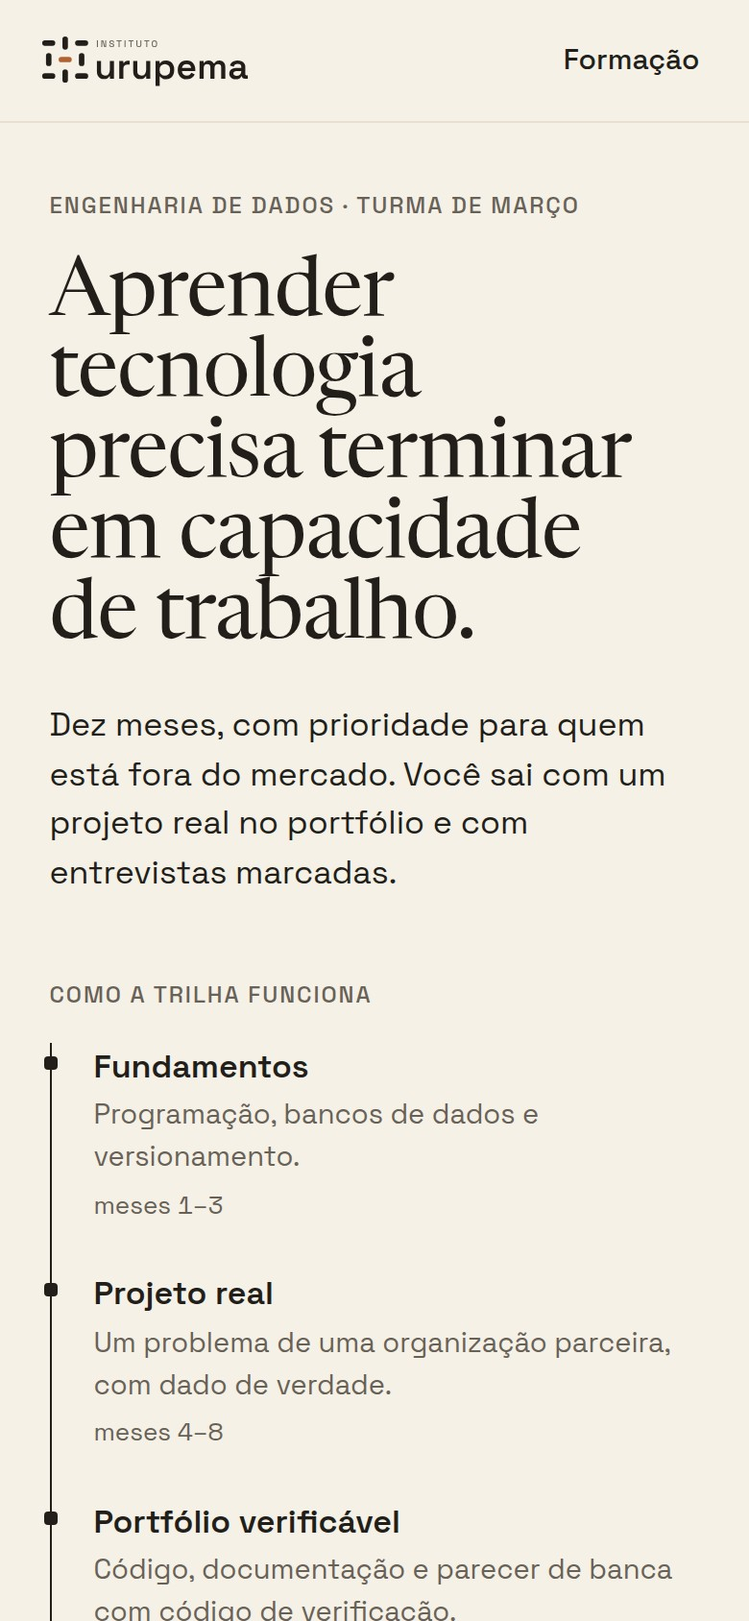
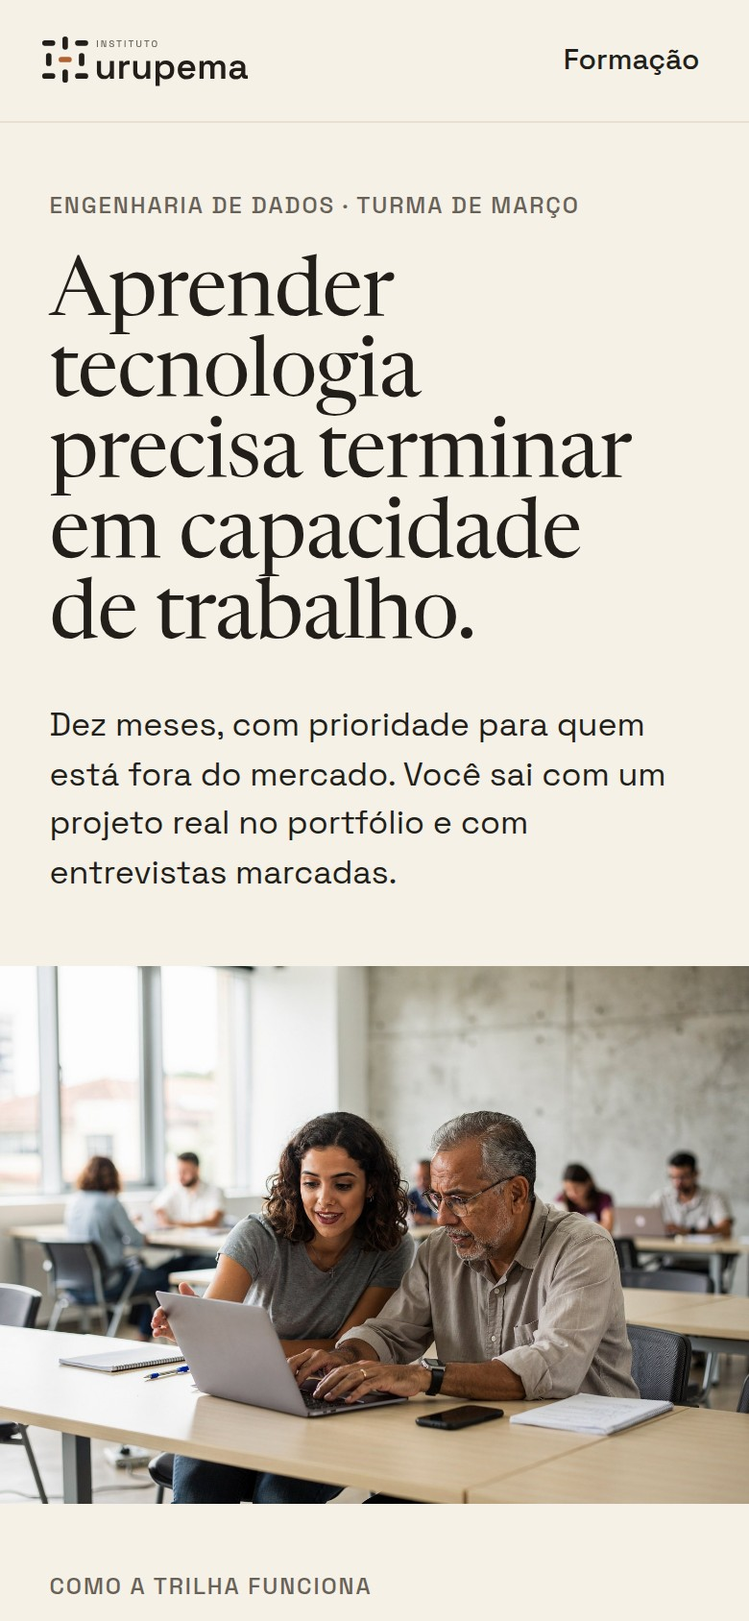
Adiciona fotografia provisória ao livro, ao site e à formação
Cinco fotos geradas segundo a direção de imagem da marca (trabalho real,
mãos e ferramentas, luz do lugar, cor natural), com pseudo-marcas removidas.
Ficam em livro/fotografia/provisoria-*.jpg até existir acervo real.
A regra de imagem passa a exigir registro real em peças de impacto.

Claude-Session: https://claude.ai/code/session_01TzECq42TYU8qYEzLuwouNr

Changed region(s): [[0.0, 0.5853, 1.0, 1.0]]

diff --git a/livro/index.html b/livro/index.html
@@ -123,6 +123,13 @@ td .chip { display: inline-block; width: 14px; height: 14px; border-radius: 3px;
 .falha h4::before { content: "Não: "; color: var(--reduzida); font-weight: 500; }
 .falha p { font-size: 15px; }
 
+/* fotografia */
+.fotos { grid-column: 1 / -1; display: grid; grid-template-columns: repeat(2, minmax(0,1fr)); column-gap: 24px; row-gap: 40px; }
+.fotos figure { margin: 0; }
+.fotos .f-grande { grid-column: 1 / -1; }
+.fotos img { width: 100%; aspect-ratio: 3 / 2; object-fit: cover; }
+.fotos .f-grande img { aspect-ratio: 21 / 9; object-position: 50% 8%; }
+
 /* aplicações */
 .aplic { padding: 120px var(--m) 96px; border-top: 1px solid var(--areia); }
 .aplic .par { display: grid; grid-template-columns: 1fr 1fr; column-gap: 24px; margin-bottom: 72px; align-items: start; }
@@ -165,7 +172,7 @@ footer.fim p { grid-column: 5 / 12; font-size: 15px; color: var(--palha-reduzida
   .s-cab, .corpo-s { display: block; }
   .s-cab h2 { margin-top: 12px; }
   .corpo-s > * + * { margin-top: 48px; }
-  .regras, .cadeia, .painel-simbolo, .assinaturas-grade, .especime, .dispositivos, .falhas, .frases, .decisao-nome, .arquivos, .aplic .par, .aplic .tres, .aplic .celular, .indice { grid-template-columns: 1fr; row-gap: 32px; }
+  .fotos, .regras, .cadeia, .painel-simbolo, .assinaturas-grade, .especime, .dispositivos, .falhas, .frases, .decisao-nome, .arquivos, .aplic .par, .aplic .tres, .aplic .celular, .indice { grid-template-columns: 1fr; row-gap: 32px; }
   .amostras { grid-template-columns: 1fr 1fr; }
   .campo-cor { min-height: 240px; }
   .campo-cor b { font-size: 22px; }
@@ -430,10 +437,17 @@ footer.fim p { grid-column: 5 / 12; font-size: 15px; color: var(--palha-reduzida
 </section>
 
 <section class="s" id="imagem">
-  <div class="s-cab"><p class="rotulo">11 · Imagem, ícones, dados e movimento</p><h2>Documentar capacidade, não encenar impacto</h2></div>
+  <div class="s-cab"><p class="rotulo">11 · Imagem, ícones, dados e movimento</p><h2>Documentar capacidade, não encenar impacto</h2><p class="abre">Fotografia de trabalho real, perto das mãos e das ferramentas, com a luz do lugar. O calor da marca vem do Urucum gráfico, nunca de um filtro na foto.</p></div>
   <div class="corpo-s">
+    <div class="fotos">
+      <figure class="f-grande"><img src="fotografia/provisoria-infraestrutura.jpg" alt="Técnica conecta um cabo de rede no painel de um rack de servidores"><figcaption><b>A ação em primeiro plano.</b> Mãos, cabo e painel dizem o que acontece; o rosto concentrado confirma que é trabalho, não pose.</figcaption></figure>
+      <figure><img src="fotografia/provisoria-pesquisa.jpg" alt="Pesquisador analisa gráficos no monitor, com caderno de anotações ao lado"><figcaption><b>Pessoa trabalhando, não olhando para a câmera.</b> Luz de janela, cor natural, tela legível só como forma.</figcaption></figure>
+      <figure><img src="fotografia/provisoria-saude.jpg" alt="Analista de dados de saúde marca uma linha em relatório impresso"><figcaption><b>O lugar como ele é.</b> Escritório público, papel e lápis; ninguém é retratado como beneficiário.</figcaption></figure>
+      <figure><img src="fotografia/provisoria-formacao.jpg" alt="Duas pessoas programam juntas em um notebook, em sala de aula"><figcaption><b>Aprender como trabalho.</b> Duas gerações diante do mesmo problema; a turma ao fundo, fora de foco.</figcaption></figure>
+      <figure><img src="fotografia/provisoria-cooperacao.jpg" alt="Mãos de quatro pessoas em volta de uma mesa com documentos, um diagrama e uma assinatura"><figcaption><b>Cooperação mostrada pelo que se decide.</b> O diagrama e a assinatura, não o aperto de mãos.</figcaption></figure>
+    </div>
     <div class="regras" style="grid-column:1/-1">
-      <div class="regra"><h4>Fotografia</h4><p class="faca">Fotografia documental de trabalho real: laboratório, sala de máquinas, campo, pesquisa e sala de aula; mãos, ferramentas, telas, cadernos e cabos antes de retratos posados.</p><p class="faca">Pessoas como pesquisadoras, técnicas, estudantes, profissionais e parceiras.</p><p class="faca">Luz natural ou neutra, cor natural; sem duotone de marca nem filtro alaranjado. O calor vem do Urucum gráfico.</p><p class="faca">Imagem gerada nunca documenta impacto, pessoa ou lugar real; quando usada, é declarada como ilustração.</p></div>
+      <div class="regra"><h4>Fotografia</h4><p class="faca">Fotografia documental de trabalho real: laboratório, sala de máquinas, campo, pesquisa e sala de aula; mãos, ferramentas, telas, cadernos e cabos antes de retratos posados.</p><p class="faca">Pessoas como pesquisadoras, técnicas, estudantes, profissionais e parceiras.</p><p class="faca">Luz natural ou neutra, cor natural; sem duotone de marca nem filtro alaranjado. O calor vem do Urucum gráfico.</p><p class="faca">Peça de impacto (relatório de resultado, prestação de contas, imprensa) usa só registro real do projeto, da pessoa ou do lugar de que fala.</p></div>
       <div class="regra"><h4>Ícones</h4><p class="faca">Traço uniforme de 1,5 px a 24 px, pontas e cantos arredondados na proporção da barra, sem copiar o símbolo.</p><p class="faca">Estados de permissão, origem, revogação e evidência sempre com rótulo textual.</p><p class="faca">Cadeado nunca representa soberania sozinho.</p></div>
       <div class="regra"><h4>Dados e diagramas</h4><p class="faca">Gráficos em Tinta e tons de Areia; uma única série ou valor em Urucum, o que a peça quer que se decida.</p><p class="faca">Linhagem é desenhada como trilha entre entidades rotuladas, com direção e data; nunca como rede de nós sem rótulo.</p><p class="faca">Toda figura traz fonte, versão do dado e data no rodapé.</p></div>
       <div class="regra"><h4>Movimento</h4><p class="faca">Barras entram por eixos ortogonais e travam na malha; sem elasticidade nem ondas.</p><p class="faca">A estrutura aparece antes do conteúdo que a atravessa; o Urucum entra por último, como decisão.</p><p class="faca">160–280 ms em microinterações; 400–700 ms na assinatura animada.</p><p class="faca">Com movimento reduzido, o estado final aparece imediatamente.</p></div>
@@ -455,7 +469,7 @@ footer.fim p { grid-column: 5 / 12; font-size: 15px; color: var(--palha-reduzida
 
 <section class="s" id="arquivos">
   <div class="s-cab"><p class="rotulo">13 · Arquivos</p><h2>Tudo o que você precisa para produzir</h2><p class="abre">Os masters estão em SVG, com o texto convertido em contornos: não dependem de fonte instalada. Os modelos em HTML imprimem em A4 pelo navegador.</p></div>
-  <div class="corpo-s"><div class="arquivos"><section class="grupo-arquivos"><h3>Símbolo, assinaturas, carimbo e ícones</h3><ul><li><a href="logo/assinatura-horizontal-1200.png" download>Assinatura horizontal 1200</a><span>assinatura-horizontal-1200.png</span></li><li><a href="logo/assinatura-horizontal-mono-negativa.svg" download>Assinatura horizontal do Instituto Urupema — Uma cor, Palha, sobre fundo escuro</a><span>assinatura-horizontal-mono-negativa.svg</span></li><li><a href="logo/assinatura-horizontal-mono.svg" download>Assinatura horizontal do Instituto Urupema — Uma cor, Tinta: carimbo, relevo seco, fax, gravação</a><span>assinatura-horizontal-mono.svg</span></li><li><a href="logo/assinatura-horizontal-negativa-1200.png" download>Assinatura horizontal negativa 1200</a><span>assinatura-horizontal-negativa-1200.png</span></li><li><a href="logo/assinatura-horizontal-negativa.svg" download>Assinatura horizontal do Instituto Urupema — Palha e Urucum, para fundo Tinta</a><span>assinatura-horizontal-negativa.svg</span></li><li><a href="logo/assinatura-horizontal.svg" download>Assinatura horizontal do Instituto Urupema — Tinta e Urucum, para fundos claros</a><span>assinatura-horizontal.svg</span></li><li><a href="logo/assinatura-vertical-mono-negativa.svg" download>Assinatura vertical do Instituto Urupema — Uma cor, Palha, sobre fundo escuro</a><span>assinatura-vertical-mono-negativa.svg</span></li><li><a href="logo/assinatura-vertical-mono.svg" download>Assinatura vertical do Instituto Urupema — Uma cor, Tinta: carimbo, relevo seco, fax, gravação</a><span>assinatura-vertical-mono.svg</span></li><li><a href="logo/assinatura-vertical-negativa.svg" download>Assinatura vertical do Instituto Urupema — Palha e Urucum, para fundo Tinta</a><span>assinatura-vertical-negativa.svg</span></li><li><a href="logo/assinatura-vertical.svg" download>Assinatura vertical do Instituto Urupema — Tinta e Urucum, para fundos claros</a><span>assinatura-vertical.svg</span></li><li><a href="logo/avatar-800.png" download>Avatar 800</a><span>avatar-800.png</span></li><li><a href="logo/avatar.svg" download>Avatar do Instituto Urupema</a><span>avatar.svg</span></li><li><a href="logo/carimbo-negativo.svg" download>Carimbo institucional do Instituto Urupema — Palha sobre fundo escuro</a><span>carimbo-negativo.svg</span></li><li><a href="logo/carimbo-urucum.svg" download>Carimbo institucional do Instituto Urupema — Urucum, como única decisão da peça</a><span>carimbo-urucum.svg</span></li><li><a href="logo/carimbo.svg" download>Carimbo institucional do Instituto Urupema — Tinta</a><span>carimbo.svg</span></li><li><a href="logo/favicon-16.png" download>Favicon 16</a><span>favicon-16.png</span></li><li><a href="logo/favicon-16.svg" download>Instituto Urupema</a><span>favicon-16.svg</span></li><li><a href="logo/favicon-32.png" download>Favicon 32</a><span>favicon-32.png</span></li><li><a href="logo/favicon-32.svg" download>Instituto Urupema</a><span>favicon-32.svg</span></li><li><a href="logo/favicon-48.png" download>Favicon 48</a><span>favicon-48.png</span></li><li><a href="logo/favicon.svg" download>Instituto Urupema</a><span>favicon.svg</span></li><li><a href="logo/forja-assinatura-negativa.svg" download>Forja — um produto do Instituto Urupema (Palha e Urucum, para fundo Tinta)</a><span>forja-assinatura-negativa.svg</span></li><li><a href="logo/forja-assinatura.svg" download>Forja — um produto do Instituto Urupema (Tinta e Urucum, para fundos claros)</a><span>forja-assinatura.svg</span></li><li><a href="logo/icone-app-180.png" download>Icone app 180</a><span>icone-app-180.png</span></li><li><a href="logo/icone-app-512.png" download>Icone app 512</a><span>icone-app-512.png</span></li><li><a href="logo/simbolo-campo-escuro.svg" download>Símbolo em escala de campo — Tinta elevada sobre Tinta</a><span>simbolo-campo-escuro.svg</span></li><li><a href="logo/simbolo-campo.svg" download>Símbolo em escala de campo — Areia sobre Palha</a><span>simbolo-campo.svg</span></li><li><a href="logo/simbolo-mono-negativa.svg" download>Símbolo do Instituto Urupema — Uma cor, Palha, sobre fundo escuro</a><span>simbolo-mono-negativa.svg</span></li><li><a href="logo/simbolo-mono.svg" download>Símbolo do Instituto Urupema — Uma cor, Tinta: carimbo, relevo seco, fax, gravação</a><span>simbolo-mono.svg</span></li><li><a href="logo/simbolo-negativa.svg" download>Símbolo do Instituto Urupema — Palha e Urucum, para fundo Tinta</a><span>simbolo-negativa.svg</span></li><li><a href="logo/simbolo.svg" download>Símbolo do Instituto Urupema</a><span>simbolo.svg</span></li></ul></section><section class="grupo-arquivos"><h3>Cores e variáveis</h3><ul><li><a href="cores/tokens.css" download>Variáveis de cor, espaço e fontes para CSS</a><span>tokens.css</span></li><li><a href="cores/tokens.json" download>Variáveis de cor, espaço e raio em JSON (formato de tokens de design)</a><span>tokens.json</span></li></ul></section><section class="grupo-arquivos"><h3>Fontes e licenças</h3><ul><li><a href="fontes/Newsreader-Variavel-Italico.woff2" download>Newsreader, variável, itálica</a><span>Newsreader-Variavel-Italico.woff2</span></li><li><a href="fontes/Newsreader-Variavel.woff2" download>Newsreader, variável, redonda</a><span>Newsreader-Variavel.woff2</span></li><li><a href="fontes/OFL-Newsreader.txt" download>Licença SIL OFL 1.1 — Newsreader</a><span>OFL-Newsreader.txt</span></li><li><a href="fontes/OFL-SpaceGrotesk.txt" download>Licença SIL OFL 1.1 — Space Grotesk</a><span>OFL-SpaceGrotesk.txt</span></li><li><a href="fontes/SpaceGrotesk-Variavel.woff2" download>Space Grotesk, variável</a><span>SpaceGrotesk-Variavel.woff2</span></li></ul></section><section class="grupo-arquivos"><h3>Modelos editáveis em HTML</h3><ul><li><a href="modelos/apresentacao.html" download>Modelo — Apresentação institucional · Instituto Urupema</a><span>apresentacao.html</span></li><li><a href="modelos/assinatura-email.html" download>Modelo — Assinatura de e-mail · Instituto Urupema</a><span>assinatura-email.html</span></li><li><a href="modelos/card-social.html" download>Modelo — Card social 1200 × 630 · Instituto Urupema</a><span>card-social.html</span></li><li><a href="modelos/certificado.html" download>Modelo — Certificado de competência · Instituto Urupema</a><span>certificado.html</span></li><li><a href="modelos/coassinatura.html" download>Modelo — Co-assinatura com parceiros · Instituto Urupema</a><span>coassinatura.html</span></li><li><a href="modelos/componentes.css" download>Componentes de marca para os modelos em HTML</a><span>componentes.css</span></li><li><a href="modelos/cracha.html" download>Modelo — Crachá · Instituto Urupema</a><span>cracha.html</span></li><li><a href="modelos/forja-evidencia.html" download>Modelo de interface — Forja, evidência de execução</a><span>forja-evidencia.html</span></li><li><a href="modelos/formacao.html" download>Formação que termina em trabalho — Instituto Urupema</a><span>formacao.html</span></li><li><a href="modelos/infra-painel.html" download>Modelo de interface — Painel de infraestrutura · Instituto Urupema</a><span>infra-painel.html</span></li><li><a href="modelos/proposta.html" download>Modelo — Proposta institucional · Instituto Urupema</a><span>proposta.html</span></li><li><a href="modelos/relatorio.html" download>Modelo — Relatório técnico · Instituto Urupema</a><span>relatorio.html</span></li><li><a href="modelos/site-home.html" download>Instituto Urupema — Refinar tecnologia em bem comum</a><span>site-home.html</span></li></ul></section><section class="grupo-arquivos"><h3>Aplicações de referência</h3><ul><li><a href="aplicacoes/apresentacao-1.jpg" download>Apresentacao 1</a><span>apresentacao-1.jpg</span></li><li><a href="aplicacoes/apresentacao-2.jpg" download>Apresentacao 2</a><span>apresentacao-2.jpg</span></li><li><a href="aplicacoes/assinatura-email.jpg" download>Assinatura email</a><span>assinatura-email.jpg</span></li><li><a href="aplicacoes/card-social-1.jpg" download>Card social 1</a><span>card-social-1.jpg</span></li><li><a href="aplicacoes/card-social-2.jpg" download>Card social 2</a><span>card-social-2.jpg</span></li><li><a href="aplicacoes/cena-convenio.jpg" download>Cena convenio</a><span>cena-convenio.jpg</span></li><li><a href="aplicacoes/cena-cracha.jpg" download>Cena cracha</a><span>cena-cracha.jpg</span></li><li><a href="aplicacoes/certificado.jpg" download>Certificado</a><span>certificado.jpg</span></li><li><a href="aplicacoes/coassinatura.jpg" download>Coassinatura</a><span>coassinatura.jpg</span></li><li><a href="aplicacoes/cracha.jpg" download>Cracha</a><span>cracha.jpg</span></li><li><a href="aplicacoes/forja-evidencia.jpg" download>Forja evidencia</a><span>forja-evidencia.jpg</span></li><li><a href="aplicacoes/formacao-celular.jpg" download>Formacao celular</a><span>formacao-celular.jpg</span></li><li><a href="aplicacoes/infra-painel.jpg" download>Infra painel</a><span>infra-painel.jpg</span></li><li><a href="aplicacoes/proposta-1.jpg" download>Proposta 1</a><span>proposta-1.jpg</span></li><li><a href="aplicacoes/proposta-2.jpg" download>Proposta 2</a><span>proposta-2.jpg</span></li><li><a href="aplicacoes/relatorio-1.jpg" download>Relatorio 1</a><span>relatorio-1.jpg</span></li><li><a href="aplicacoes/relatorio-2.jpg" download>Relatorio 2</a><span>relatorio-2.jpg</span></li><li><a href="aplicacoes/site-celular.jpg" download>Site celular</a><span>site-celular.jpg</span></li><li><a href="aplicacoes/site-home.jpg" download>Site home</a><span>site-home.jpg</span></li></ul></section></div></div>
+  <div class="corpo-s"><div class="arquivos"><section class="grupo-arquivos"><h3>Símbolo, assinaturas, carimbo e ícones</h3><ul><li><a href="logo/assinatura-horizontal-1200.png" download>Assinatura horizontal 1200</a><span>assinatura-horizontal-1200.png</span></li><li><a href="logo/assinatura-horizontal-mono-negativa.svg" download>Assinatura horizontal do Instituto Urupema — Uma cor, Palha, sobre fundo escuro</a><span>assinatura-horizontal-mono-negativa.svg</span></li><li><a href="logo/assinatura-horizontal-mono.svg" download>Assinatura horizontal do Instituto Urupema — Uma cor, Tinta: carimbo, relevo seco, fax, gravação</a><span>assinatura-horizontal-mono.svg</span></li><li><a href="logo/assinatura-horizontal-negativa-1200.png" download>Assinatura horizontal negativa 1200</a><span>assinatura-horizontal-negativa-1200.png</span></li><li><a href="logo/assinatura-horizontal-negativa.svg" download>Assinatura horizontal do Instituto Urupema — Palha e Urucum, para fundo Tinta</a><span>assinatura-horizontal-negativa.svg</span></li><li><a href="logo/assinatura-horizontal.svg" download>Assinatura horizontal do Instituto Urupema — Tinta e Urucum, para fundos claros</a><span>assinatura-horizontal.svg</span></li><li><a href="logo/assinatura-vertical-mono-negativa.svg" download>Assinatura vertical do Instituto Urupema — Uma cor, Palha, sobre fundo escuro</a><span>assinatura-vertical-mono-negativa.svg</span></li><li><a href="logo/assinatura-vertical-mono.svg" download>Assinatura vertical do Instituto Urupema — Uma cor, Tinta: carimbo, relevo seco, fax, gravação</a><span>assinatura-vertical-mono.svg</span></li><li><a href="logo/assinatura-vertical-negativa.svg" download>Assinatura vertical do Instituto Urupema — Palha e Urucum, para fundo Tinta</a><span>assinatura-vertical-negativa.svg</span></li><li><a href="logo/assinatura-vertical.svg" download>Assinatura vertical do Instituto Urupema — Tinta e Urucum, para fundos claros</a><span>assinatura-vertical.svg</span></li><li><a href="logo/avatar-800.png" download>Avatar 800</a><span>avatar-800.png</span></li><li><a href="logo/avatar.svg" download>Avatar do Instituto Urupema</a><span>avatar.svg</span></li><li><a href="logo/carimbo-negativo.svg" download>Carimbo institucional do Instituto Urupema — Palha sobre fundo escuro</a><span>carimbo-negativo.svg</span></li><li><a href="logo/carimbo-urucum.svg" download>Carimbo institucional do Instituto Urupema — Urucum, como única decisão da peça</a><span>carimbo-urucum.svg</span></li><li><a href="logo/carimbo.svg" download>Carimbo institucional do Instituto Urupema — Tinta</a><span>carimbo.svg</span></li><li><a href="logo/favicon-16.png" download>Favicon 16</a><span>favicon-16.png</span></li><li><a href="logo/favicon-16.svg" download>Instituto Urupema</a><span>favicon-16.svg</span></li><li><a href="logo/favicon-32.png" download>Favicon 32</a><span>favicon-32.png</span></li><li><a href="logo/favicon-32.svg" download>Instituto Urupema</a><span>favicon-32.svg</span></li><li><a href="logo/favicon-48.png" download>Favicon 48</a><span>favicon-48.png</span></li><li><a href="logo/favicon.svg" download>Instituto Urupema</a><span>favicon.svg</span></li><li><a href="logo/forja-assinatura-negativa.svg" download>Forja — um produto do Instituto Urupema (Palha e Urucum, para fundo Tinta)</a><span>forja-assinatura-negativa.svg</span></li><li><a href="logo/forja-assinatura.svg" download>Forja — um produto do Instituto Urupema (Tinta e Urucum, para fundos claros)</a><span>forja-assinatura.svg</span></li><li><a href="logo/icone-app-180.png" download>Icone app 180</a><span>icone-app-180.png</span></li><li><a href="logo/icone-app-512.png" download>Icone app 512</a><span>icone-app-512.png</span></li><li><a href="logo/simbolo-campo-escuro.svg" download>Símbolo em escala de campo — Tinta elevada sobre Tinta</a><span>simbolo-campo-escuro.svg</span></li><li><a href="logo/simbolo-campo.svg" download>Símbolo em escala de campo — Areia sobre Palha</a><span>simbolo-campo.svg</span></li><li><a href="logo/simbolo-mono-negativa.svg" download>Símbolo do Instituto Urupema — Uma cor, Palha, sobre fundo escuro</a><span>simbolo-mono-negativa.svg</span></li><li><a href="logo/simbolo-mono.svg" download>Símbolo do Instituto Urupema — Uma cor, Tinta: carimbo, relevo seco, fax, gravação</a><span>simbolo-mono.svg</span></li><li><a href="logo/simbolo-negativa.svg" download>Símbolo do Instituto Urupema — Palha e Urucum, para fundo Tinta</a><span>simbolo-negativa.svg</span></li><li><a href="logo/simbolo.svg" download>Símbolo do Instituto Urupema</a><span>simbolo.svg</span></li></ul></section><section class="grupo-arquivos"><h3>Cores e variáveis</h3><ul><li><a href="cores/tokens.css" download>Variáveis de cor, espaço e fontes para CSS</a><span>tokens.css</span></li><li><a href="cores/tokens.json" download>Variáveis de cor, espaço e raio em JSON (formato de tokens de design)</a><span>tokens.json</span></li></ul></section><section class="grupo-arquivos"><h3>Fontes e licenças</h3><ul><li><a href="fontes/Newsreader-Variavel-Italico.woff2" download>Newsreader, variável, itálica</a><span>Newsreader-Variavel-Italico.woff2</span></li><li><a href="fontes/Newsreader-Variavel.woff2" download>Newsreader, variável, redonda</a><span>Newsreader-Variavel.woff2</span></li><li><a href="fontes/OFL-Newsreader.txt" download>Licença SIL OFL 1.1 — Newsreader</a><span>OFL-Newsreader.txt</span></li><li><a href="fontes/OFL-SpaceGrotesk.txt" download>Licença SIL OFL 1.1 — Space Grotesk</a><span>OFL-SpaceGrotesk.txt</span></li><li><a href="fontes/SpaceGrotesk-Variavel.woff2" download>Space Grotesk, variável</a><span>SpaceGrotesk-Variavel.woff2</span></li></ul></section><section class="grupo-arquivos"><h3>Modelos editáveis em HTML</h3><ul><li><a href="modelos/apresentacao.html" download>Modelo — Apresentação institucional · Instituto Urupema</a><span>apresentacao.html</span></li><li><a href="modelos/assinatura-email.html" download>Modelo — Assinatura de e-mail · Instituto Urupema</a><span>assinatura-email.html</span></li><li><a href="modelos/card-social.html" download>Modelo — Card social 1200 × 630 · Instituto Urupema</a><span>card-social.html</span></li><li><a href="modelos/certificado.html" download>Modelo — Certificado de competência · Instituto Urupema</a><span>certificado.html</span></li><li><a href="modelos/coassinatura.html" download>Modelo — Co-assinatura com parceiros · Instituto Urupema</a><span>coassinatura.html</span></li><li><a href="modelos/componentes.css" download>Componentes de marca para os modelos em HTML</a><span>componentes.css</span></li><li><a href="modelos/cracha.html" download>Modelo — Crachá · Instituto Urupema</a><span>cracha.html</span></li><li><a href="modelos/forja-evidencia.html" download>Modelo de interface — Forja, evidência de execução</a><span>forja-evidencia.html</span></li><li><a href="modelos/formacao.html" download>Formação que termina em trabalho — Instituto Urupema</a><span>formacao.html</span></li><li><a href="modelos/infra-painel.html" download>Modelo de interface — Painel de infraestrutura · Instituto Urupema</a><span>infra-painel.html</span></li><li><a href="modelos/proposta.html" download>Modelo — Proposta institucional · Instituto Urupema</a><span>proposta.html</span></li><li><a href="modelos/relatorio.html" download>Modelo — Relatório técnico · Instituto Urupema</a><span>relatorio.html</span></li><li><a href="modelos/site-home.html" download>Instituto Urupema — Refinar tecnologia em bem comum</a><span>site-home.html</span></li></ul></section><section class="grupo-arquivos"><h3>Fotografia</h3><ul><li><a href="fotografia/provisoria-cooperacao.jpg" download>Provisoria cooperacao</a><span>provisoria-cooperacao.jpg</span></li><li><a href="fotografia/provisoria-formacao.jpg" download>Provisoria formacao</a><span>provisoria-formacao.jpg</span></li><li><a href="fotografia/provisoria-infraestrutura.jpg" download>Provisoria infraestrutura</a><span>provisoria-infraestrutura.jpg</span></li><li><a href="fotografia/provisoria-pesquisa.jpg" download>Provisoria pesquisa</a><span>provisoria-pesquisa.jpg</span></li><li><a href="fotografia/provisoria-saude.jpg" download>Provisoria saude</a><span>provisoria-saude.jpg</span></li></ul></section><section class="grupo-arquivos"><h3>Aplicações de referência</h3><ul><li><a href="aplicacoes/apresentacao-1.jpg" download>Apresentacao 1</a><span>apresentacao-1.jpg</span></li><li><a href="aplicacoes/apresentacao-2.jpg" download>Apresentacao 2</a><span>apresentacao-2.jpg</span></li><li><a href="aplicacoes/assinatura-email.jpg" download>Assinatura email</a><span>assinatura-email.jpg</span></li><li><a href="aplicacoes/card-social-1.jpg" download>Card social 1</a><span>card-social-1.jpg</span></li><li><a href="aplicacoes/card-social-2.jpg" download>Card social 2</a><span>card-social-2.jpg</span></li><li><a href="aplicacoes/cena-convenio.jpg" download>Cena convenio</a><span>cena-convenio.jpg</span></li><li><a href="aplicacoes/cena-cracha.jpg" download>Cena cracha</a><span>cena-cracha.jpg</span></li><li><a href="aplicacoes/certificado.jpg" download>Certificado</a><span>certificado.jpg</span></li><li><a href="aplicacoes/coassinatura.jpg" download>Coassinatura</a><span>coassinatura.jpg</span></li><li><a href="aplicacoes/cracha.jpg" download>Cracha</a><span>cracha.jpg</span></li><li><a href="aplicacoes/forja-evidencia.jpg" download>Forja evidencia</a><span>forja-evidencia.jpg</span></li><li><a href="aplicacoes/formacao-celular.jpg" download>Formacao celular</a><span>formacao-celular.jpg</span></li><li><a href="aplicacoes/infra-painel.jpg" download>Infra painel</a><span>infra-painel.jpg</span></li><li><a href="aplicacoes/proposta-1.jpg" download>Proposta 1</a><span>proposta-1.jpg</span></li><li><a href="aplicacoes/proposta-2.jpg" download>Proposta 2</a><span>proposta-2.jpg</span></li><li><a href="aplicacoes/relatorio-1.jpg" download>Relatorio 1</a><span>relatorio-1.jpg</span></li><li><a href="aplicacoes/relatorio-2.jpg" download>Relatorio 2</a><span>relatorio-2.jpg</span></li><li><a href="aplicacoes/site-celular.jpg" download>Site celular</a><span>site-celular.jpg</span></li><li><a href="aplicacoes/site-home.jpg" download>Site home</a><span>site-home.jpg</span></li></ul></section></div></div>
 </section>
 
 <footer class="fim escuro">

diff --git a/livro/modelos/site-home.html b/livro/modelos/site-home.html
@@ -32,6 +32,9 @@
   .quatro p { font-size: 15.5px; margin: 0 0 20px; }
   .quatro a { font-size: 15px; }
 
+  .foto { margin: 0; display: grid; grid-template-columns: repeat(12, 1fr); column-gap: 24px; padding: 0 var(--margem) 96px; }
+  .foto img { grid-column: 1 / 13; width: 100%; height: 620px; object-fit: cover; display: block; }
+  .foto figcaption { grid-column: 1 / 7; margin-top: 14px; font-size: 14px; color: var(--papel-texto-secundario); }
   .prova { background: var(--papel-superficie); padding: 88px var(--margem); display: grid; grid-template-columns: repeat(12, 1fr); column-gap: 24px; row-gap: 40px; }
   .prova .citacao { grid-column: 1 / 7; font: 400 40px/1.12 var(--fonte-institucional); font-variation-settings: "opsz" 60; margin: 0; }
   .prova .numeros { grid-column: 8 / 13; display: grid; row-gap: 26px; }
@@ -60,6 +63,8 @@
     .quatro { grid-template-columns: 1fr; }
     .quatro article { border-right: 0; margin-right: 0; border-bottom: 1px solid var(--papel-filete); padding-right: 0; }
     .quatro h3 { margin-top: 12px; }
+    .foto { display: block; padding-bottom: 56px; }
+    .foto img { height: 300px; }
     .prova { display: block; padding: 56px var(--margem); }
     .prova .citacao { font-size: 30px; margin-bottom: 36px; }
     footer { display: block; }
@@ -99,6 +104,11 @@
       <article><span class="n">04</span><h3>Extensão tecnológica</h3><p>Projetos de PD&amp;I sob encomenda, consultoria e treinamento que transferem conhecimento e sustentam a missão.</p><a class="acao-secundaria" href="#">Trabalhar com o Instituto</a></article>
     </div>
   </section>
+
+  <figure class="foto">
+    <img src="../fotografia/provisoria-infraestrutura.jpg" alt="Técnica conecta um cabo de rede no painel de um rack de servidores">
+    <figcaption>Infraestrutura computacional própria, operada pela equipe do Instituto.</figcaption>
+  </figure>
 
   <section class="prova">
     <p class="citacao">Antes do fluxo, existe a malha: quem decide, o que circula, onde roda e que prova fica.</p>

diff --git a/livro/modelos/formacao.html b/livro/modelos/formacao.html
@@ -14,6 +14,8 @@
   .abre .rotulo { margin-bottom: 18px; }
   .abre h1 { font-size: clamp(40px, 11vw, 88px); line-height: .98; }
   .abre p.corpo { font-size: 17px; margin-top: 22px; }
+  .foto { margin: 28px 0 0; }
+  .foto img { width: 100%; height: 280px; object-fit: cover; display: block; }
   .trilha { padding: 36px var(--margem) 8px; }
   .trilha ol { list-style: none; margin: 16px 0 0; padding: 0; border-left: 1px solid var(--papel-texto); }
   .trilha li { padding: 0 0 22px 22px; position: relative; }
@@ -38,6 +40,7 @@
     <h1 class="exibicao">Aprender tecnologia precisa terminar em capacidade de trabalho.</h1>
     <p class="corpo">Dez meses, com prioridade para quem está fora do mercado. Você sai com um projeto real no portfólio e com entrevistas marcadas.</p>
   </section>
+  <figure class="foto"><img src="../fotografia/provisoria-formacao.jpg" alt="Dois estudantes programam juntos em um notebook, em sala de aula"></figure>
   <section class="trilha">
     <p class="rotulo">Como a trilha funciona</p>
     <ol>

diff --git a/ferramentas/gerar_livro.py b/ferramentas/gerar_livro.py
@@ -122,6 +122,7 @@ GRUPOS = [
     ("cores", "Cores e variáveis"),
     ("fontes", "Fontes e licenças"),
     ("modelos", "Modelos editáveis em HTML"),
+    ("fotografia", "Fotografia"),
     ("aplicacoes", "Aplicações de referência"),
 ]
 
@@ -286,6 +287,13 @@ td .chip {{ display: inline-block; width: 14px; height: 14px; border-radius: 3px
 .falha h4::before {{ content: "Não: "; color: var(--reduzida); font-weight: 500; }}
 .falha p {{ font-size: 15px; }}
 
+/* fotografia */
+.fotos {{ grid-column: 1 / -1; display: grid; grid-template-columns: repeat(2, minmax(0,1fr)); column-gap: 24px; row-gap: 40px; }}
+.fotos figure {{ margin: 0; }}
+.fotos .f-grande {{ grid-column: 1 / -1; }}
+.fotos img {{ width: 100%; aspect-ratio: 3 / 2; object-fit: cover; }}
+.fotos .f-grande img {{ aspect-ratio: 21 / 9; object-position: 50% 8%; }}
+
 /* aplicações */
 .aplic {{ padding: 120px var(--m) 96px; border-top: 1px solid var(--areia); }}
 .aplic .par {{ display: grid; grid-template-columns: 1fr 1fr; column-gap: 24px; margin-bottom: 72px; align-items: start; }}
@@ -328,7 +336,7 @@ footer.fim p {{ grid-column: 5 / 12; font-size: 15px; color: var(--palha-reduzid
   .s-cab, .corpo-s {{ display: block; }}
   .s-cab h2 {{ margin-top: 12px; }}
   .corpo-s > * + * {{ margin-top: 48px; }}
-  .regras, .cadeia, .painel-simbolo, .assinaturas-grade, .especime, .dispositivos, .falhas, .frases, .decisao-nome, .arquivos, .aplic .par, .aplic .tres, .aplic .celular, .indice {{ grid-template-columns: 1fr; row-gap: 32px; }}
+  .fotos, .regras, .cadeia, .painel-simbolo, .assinaturas-grade, .especime, .dispositivos, .falhas, .frases, .decisao-nome, .arquivos, .aplic .par, .aplic .tres, .aplic .celular, .indice {{ grid-template-columns: 1fr; row-gap: 32px; }}
   .amostras {{ grid-template-columns: 1fr 1fr; }}
   .campo-cor {{ min-height: 240px; }}
   .campo-cor b {{ font-size: 22px; }}
@@ -708,8 +716,15 @@ corpo = f"""
 </section>
 
 <section class="s" id="imagem">
-  {cab(11, "imagem", "Documentar capacidade, não encenar impacto")}
+  {cab(11, "imagem", "Documentar capacidade, não encenar impacto", "Fotografia de trabalho real, perto das mãos e das ferramentas, com a luz do lugar. O calor da marca vem do Urucum gráfico, nunca de um filtro na foto.")}
   <div class="corpo-s">
+    <div class="fotos">
+      <figure class="f-grande"><img src="fotografia/provisoria-infraestrutura.jpg" alt="Técnica conecta um cabo de rede no painel de um rack de servidores"><figcaption><b>A ação em primeiro plano.</b> Mãos, cabo e painel dizem o que acontece; o rosto concentrado confirma que é trabalho, não pose.</figcaption></figure>
+      <figure><img src="fotografia/provisoria-pesquisa.jpg" alt="Pesquisador analisa gráficos no monitor, com caderno de anotações ao lado"><figcaption><b>Pessoa trabalhando, não olhando para a câmera.</b> Luz de janela, cor natural, tela legível só como forma.</figcaption></figure>
+      <figure><img src="fotografia/provisoria-saude.jpg" alt="Analista de dados de saúde marca uma linha em relatório impresso"><figcaption><b>O lugar como ele é.</b> Escritório público, papel e lápis; ninguém é retratado como beneficiário.</figcaption></figure>
+      <figure><img src="fotografia/provisoria-formacao.jpg" alt="Duas pessoas programam juntas em um notebook, em sala de aula"><figcaption><b>Aprender como trabalho.</b> Duas gerações diante do mesmo problema; a turma ao fundo, fora de foco.</figcaption></figure>
+      <figure><img src="fotografia/provisoria-cooperacao.jpg" alt="Mãos de quatro pessoas em volta de uma mesa com documentos, um diagrama e uma assinatura"><figcaption><b>Cooperação mostrada pelo que se decide.</b> O diagrama e a assinatura, não o aperto de mãos.</figcaption></figure>
+    </div>
     <div class="regras" style="grid-column:1/-1">
       <div class="regra"><h4>Fotografia</h4>{"".join(f'<p class="faca">{e(r)}</p>' for r in C["visual"]["imagery"]["rules"])}</div>
       <div class="regra"><h4>Ícones</h4>{"".join(f'<p class="faca">{e(r)}</p>' for r in C["visual"]["iconography"]["rules"])}</div>

diff --git a/README.md b/README.md
@@ -6,3 +6,4 @@ O livro da marca é [`livro/index.html`](livro/index.html): regras, masters, cor
 - `ferramentas/` — reproduz os masters, as variáveis de cor, os renders e o livro a partir do contrato:
   `python3 ferramentas/gerar_logos.py`, `python3 ferramentas/gerar_tokens.py`, `bash ferramentas/renderizar_aplicacoes.sh`, `python3 ferramentas/gerar_livro.py` (Python com fonttools e uharfbuzz; `npm i` em `ferramentas/` para o Playwright).
 - `referencias/briefing-mestre.docx` — o mandato desta etapa.
+- `livro/fotografia/provisoria-*.jpg` — fotos provisórias, até existir acervo real; para trocar, substitua o arquivo mantendo o nome e rode `bash ferramentas/renderizar_aplicacoes.sh` e `python3 ferramentas/gerar_livro.py`.
